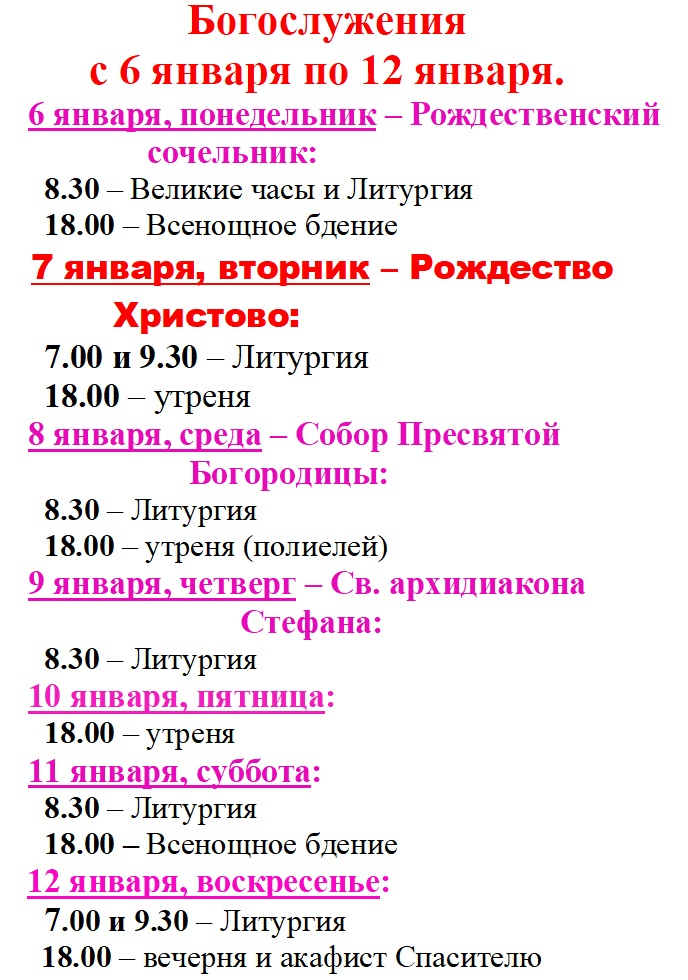
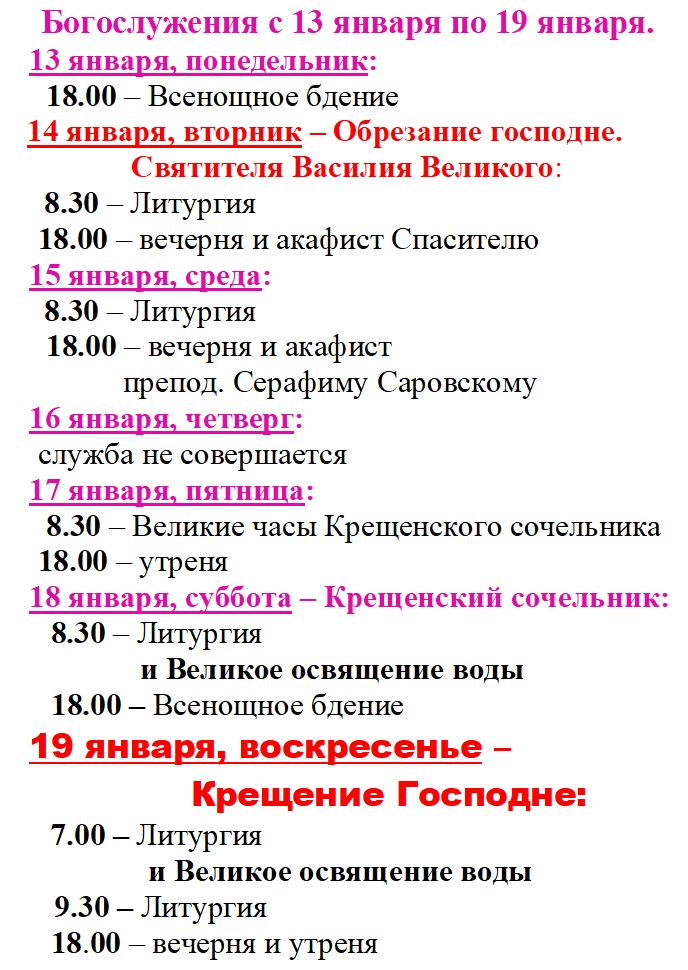
Update

Changed region(s): [[0.0305, 0.0, 0.9767, 1.0]]

diff --git a/calendartek.html b/calendartek.html
@@ -174,10 +174,10 @@
 								<div class="slider">
 									<!--<div class="slider__item">
 										<img src="img/raspisanie/02.jpg" alt="Объявление 2">
-									</div>-->
+									</div>
   									<div class="slider__item">
 										<img src="img/raspisanie/02.jpg" alt="Объявление 1">
-									</div>
+									</div>-->
 									<!--<div class="slider__item">
 										<img src="img/raspisanie/04.jpg" alt="Объявление 4">
 									</div>-->
@@ -188,12 +188,12 @@
 									<div class="slider__item">
 										<img src="img/raspisanie/r2.jpg" alt="Расписание">
 									</div>
-  									<div class="slider__item">
-										<img src="img/raspisanie/01.jpg" alt="Объявление 3">
-									</div>
-									<!--<div class="slider__item">
+									<div class="slider__item">
 										<img src="img/raspisanie/r3.jpg" alt="Расписание">
 									</div>
+  									<div class="slider__item">
+										<img src="img/raspisanie/01.jpg" alt="Объявление 3">
+									<!--</div>
 									<div class="slider__item">
 										<img src="img/raspisanie/r4.jpg" alt="Расписание">
 									</div>
